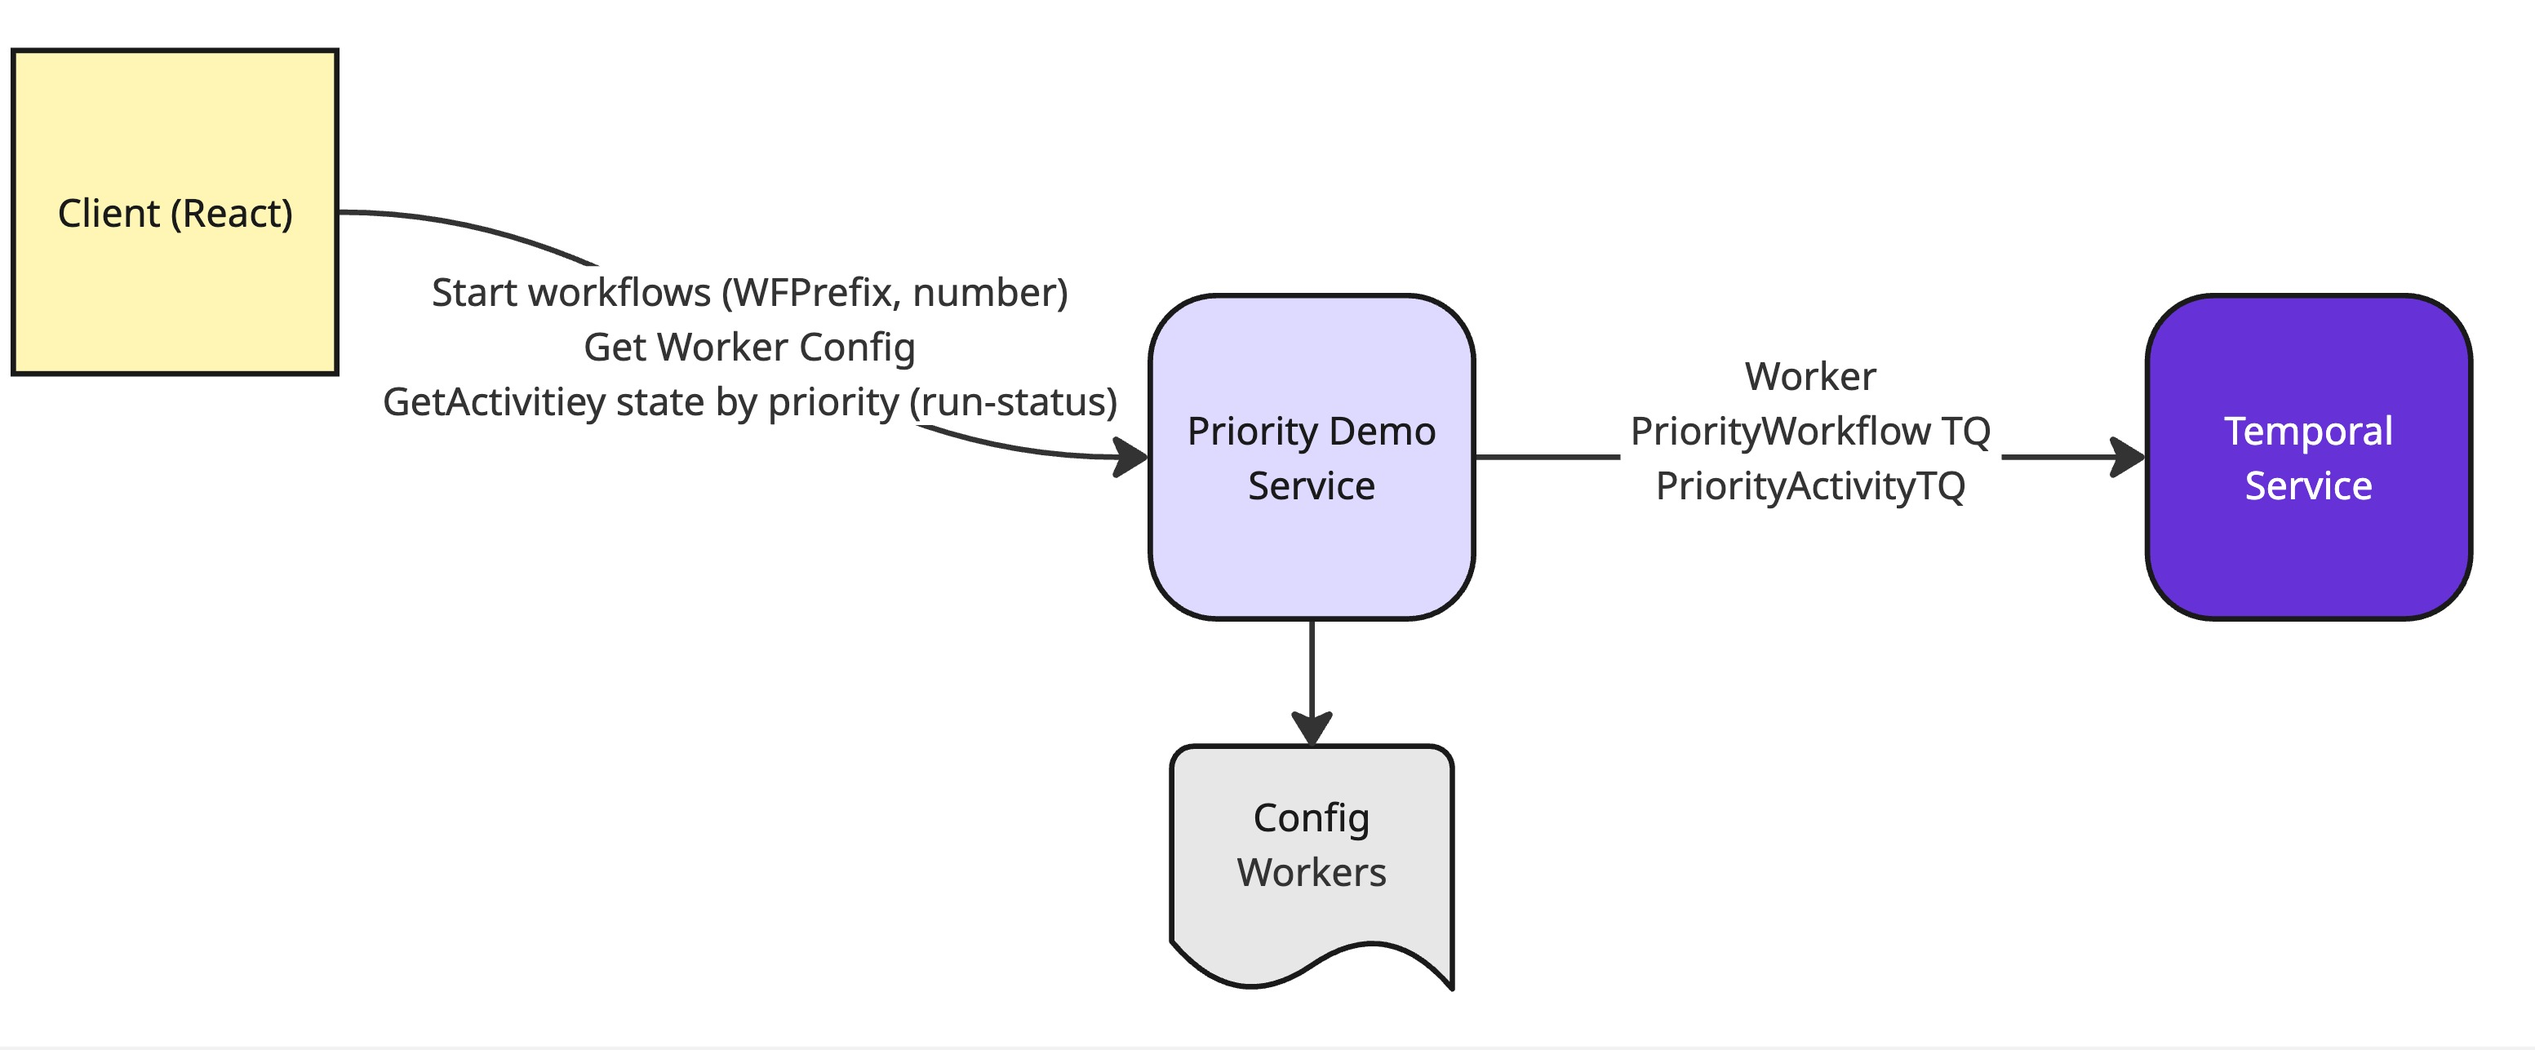
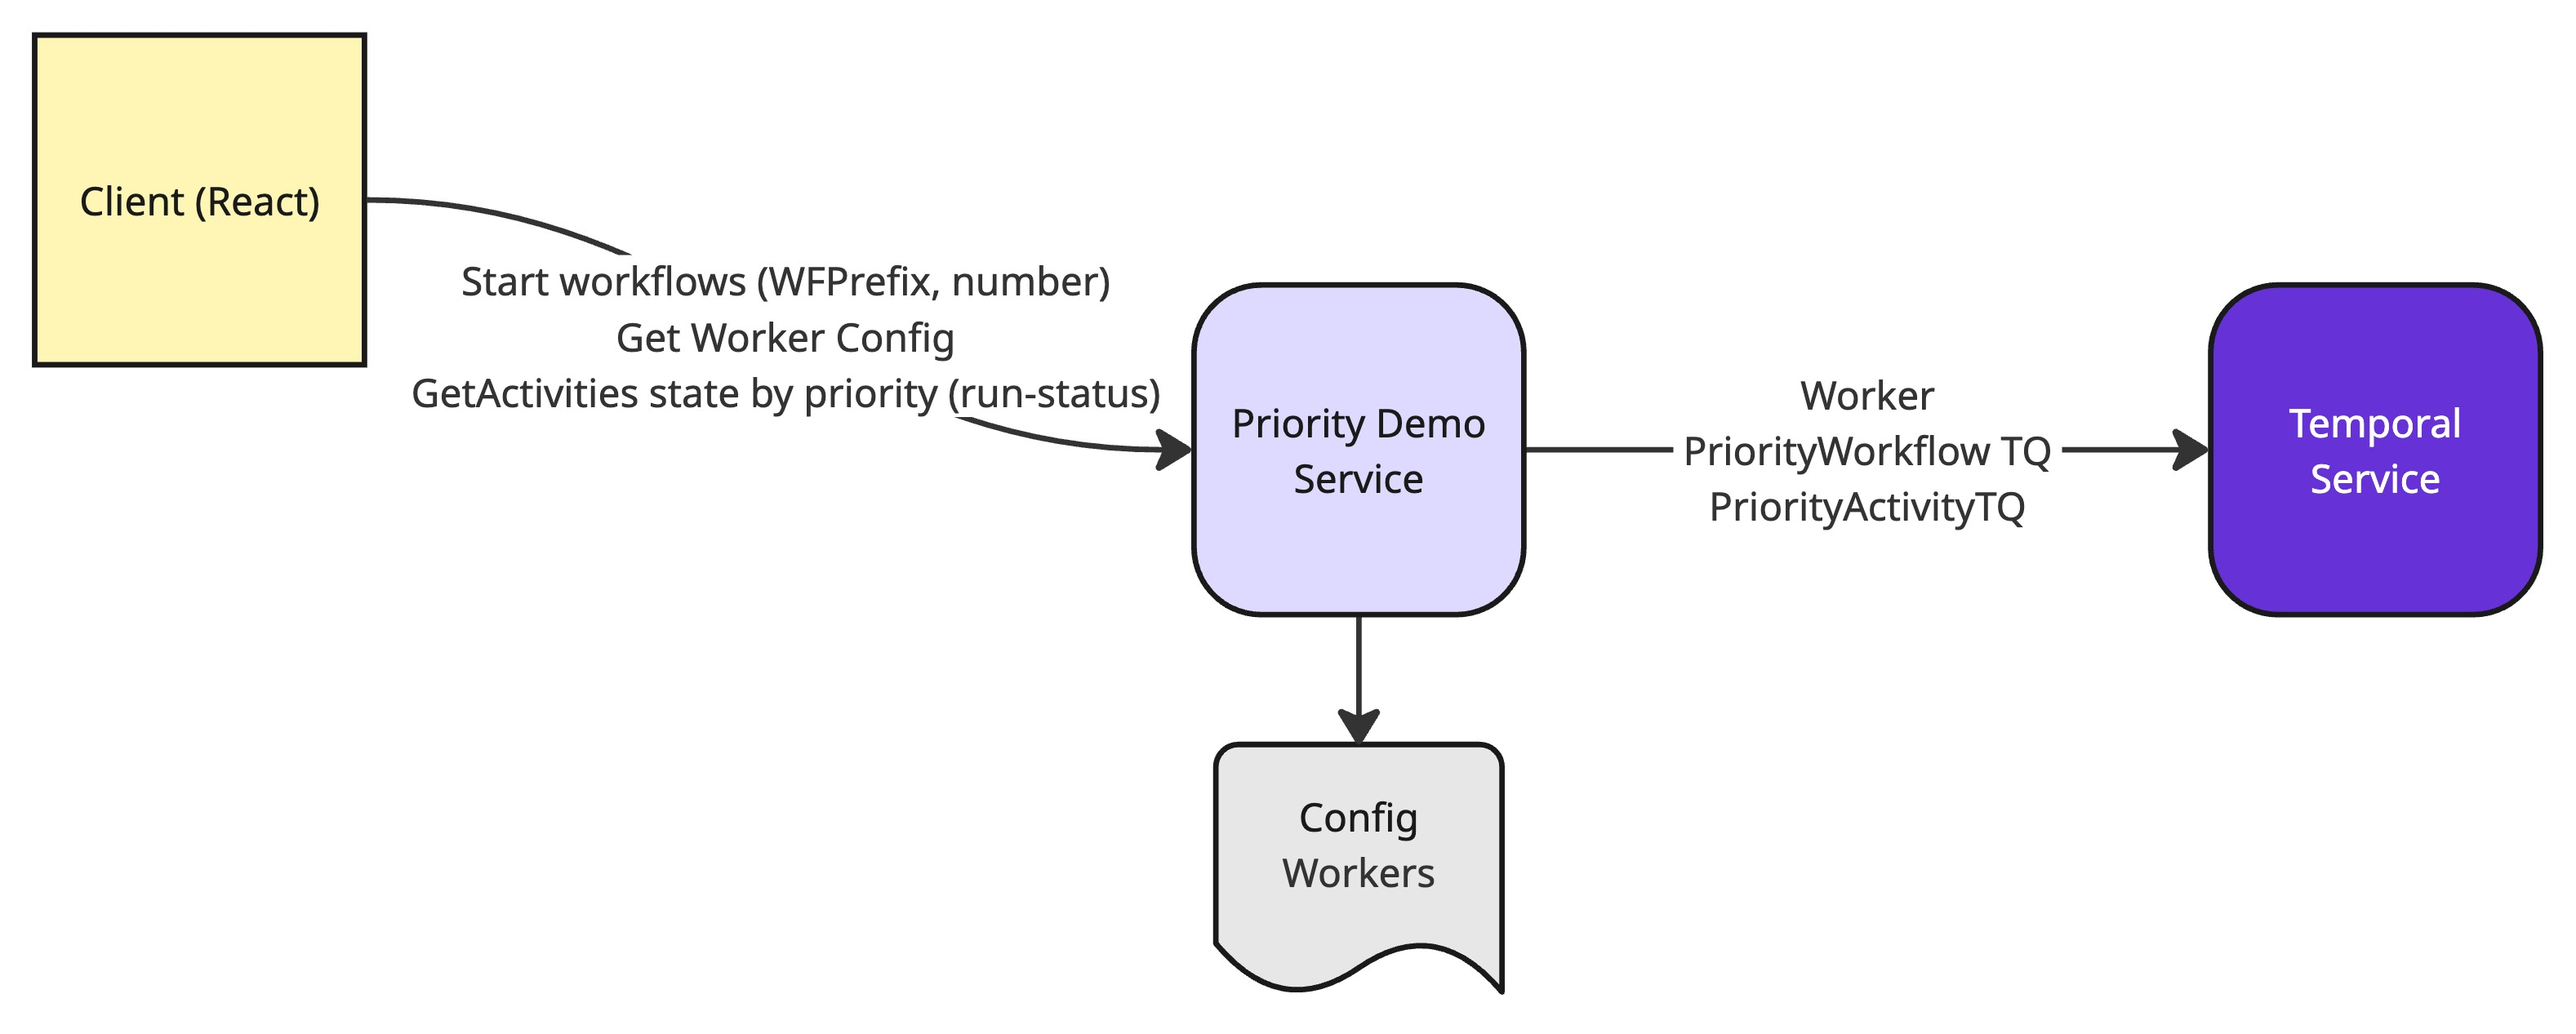
Improving the startup scripts and completing basic README documentation.

Changed region(s): [[0.0, 0.0308, 0.9994, 0.9542]]

diff --git a/README.md b/README.md
@@ -2,11 +2,16 @@
 
 This simple demonstration is designed to showcase how priority queues operate in Temporal.  
 
-he application is deployed into two components, a react frontend using Vite that allows the user to specify a prefix to use in a test and how many workflows to run in order to demonstrate the priority queue management.  I have found that with 5 executor threads in the application 100 workflows is enough to showcase the feature clearly.  The Server side is implemented using Java Springboot with the configuration of the workers exposed in the application.yaml file.  The general deployment topology is shown below.
+The application is deployed into two components, a react frontend using Vite that allows the user to specify a prefix to use in a test and how many workflows to run in order to demonstrate the priority queue management.   The workflows are very simple, there is no priority set for the workflow tasks but each workflow consists of 5 activities done in series.  The activities have a priority put on them and so workflows configured for the higher priority will have their activities progressed first.
+
+I have found that with 5 executor threads in the application 100 workflows is enough to showcase the feature clearly.  The Server side is implemented using Java Springboot with the configuration of the workers exposed in the application.yaml file.  The general deployment topology is shown below.
 
 ![Priority-Task-Queue-Demo.jpg](docs/Priority-Task-Queue-Demo.jpg)
+The workflow summary shown below for a single workflow instance.
 
-# Setup namespace with search attributes needed.
+![Workflow-Summary.png](docs/Workflow-summary.png)
+
+# Pre-requisites - Setup namespace with search attributes needed.
 Using the latest dev server (1.4 or higher, or from docker-compose repo 1.28.1 or higher) set the configuration `matching.useNewMatcher` as mentioned in [pre-release docs](https://docs.google.com/document/d/1FnBZRjlz0eWGWk_bVLmQ3eZOTOJRFO4s4utGdQtWkIQ/edit?tab=t.0). 
 Assuming you are using the auto-setup [docker-compose](https://github.com/temporalio/docker-compose) config then add the following to your dynamicconfig
 ```
@@ -15,12 +20,47 @@ matching.useNewMatcher:
     constraints:
        namespace: default
 ```
-Ensure that you have added the search attributes Priority and ActivitiesCompleted both of type int to the namespace used.  These are needed for the demo.
+
+If using Temporal cloud then request the enablement of priority queues.  
+
+_Note - if priority queues have not been enabled then the default processing of approximate first in first out to the task queue will apply so all workflows will progress at roughly even speeds._
+
+
+Ensure that you have added the search attributes **`Priority`** and **`ActivitiesCompleted`** both of type int to the namespace used.  These are needed for the demo as each workflow gets assigned a priority in the input parameters and as the workflow progresses it will update the search attributes with the number of activities completed.  This allows the UI to see how each workflow is progressing and display the results.
+
 ```
-temporal --address localhost:7233 --namespace default operator search-attribute create --name Priority --type int
-temporal --address localhost:7233 --namespace default operator search-attribute create --name ActivitiesCompleted --type int
+$ temporal --address localhost:7233 --namespace default operator search-attribute create --name Priority --type int
+$ temporal --address localhost:7233 --namespace default operator search-attribute create --name ActivitiesCompleted --type int
 ```
 
 # Run the application
 
+To start the worker...
+If running using a local temporal instance
+```
+$ ./startlocalworker.sh
+```
+If running using temporal cloud then we need to get the environment variables set in advance.  The variables you need to get setup are:-
+* TEMPORAL_NAMESPACE eg. donald-demo.sdvdw
+* TEMPORAL_ADDRESS eg. donald-demo.sdvdw.tmprl.cloud:7233
+* TEMPORAL_KEY_PATH eg. /Path/To/Temporal/Client/key/temporal-client.key
+* TEMPORAL_CERT_PATH eg. /Path/To/Temporal/Client/Certificate/temporal-client-leaf-cert.pem
+
+With these set you can run `./startcloudworker.sh`. eg.
+```
+$ TEMPORAL_NAMESPACE=donald-demo.sdvdw TEMPORAL_ADDRESS=donald-demo.sdvdw.tmprl.cloud:7233 TEMPORAL_KEY_PATH=/Users/donald/stuff/source/certificates/temporal-client.key TEMPORAL_CERT_PATH=/Users/donald/stuff/source/certificates/temporal-client-leaf.pem ./startcloudworker.sh
+
+```
+However, if you are using the temporal cli and have setup an environment for this you can simply pass in the environment name used and the script will extract the env vars from the settings of the temporal environment.
+
+``` 
+$ temporal env get donald-demo
+  Property        Value
+  address         donald-demo.sdvdw.tmprl.cloud:7233
+  namespace       donald-demo.sdvdw
+  tls-cert-path   /Users/donald/stuff/source/certificates/temporal-client-leaf.pem
+  tls-key-path    /Users/donald/stuff/source/certificates/temporal-client.key
+
+$ ./startcloudworker.sh donald-demo
+```
 
